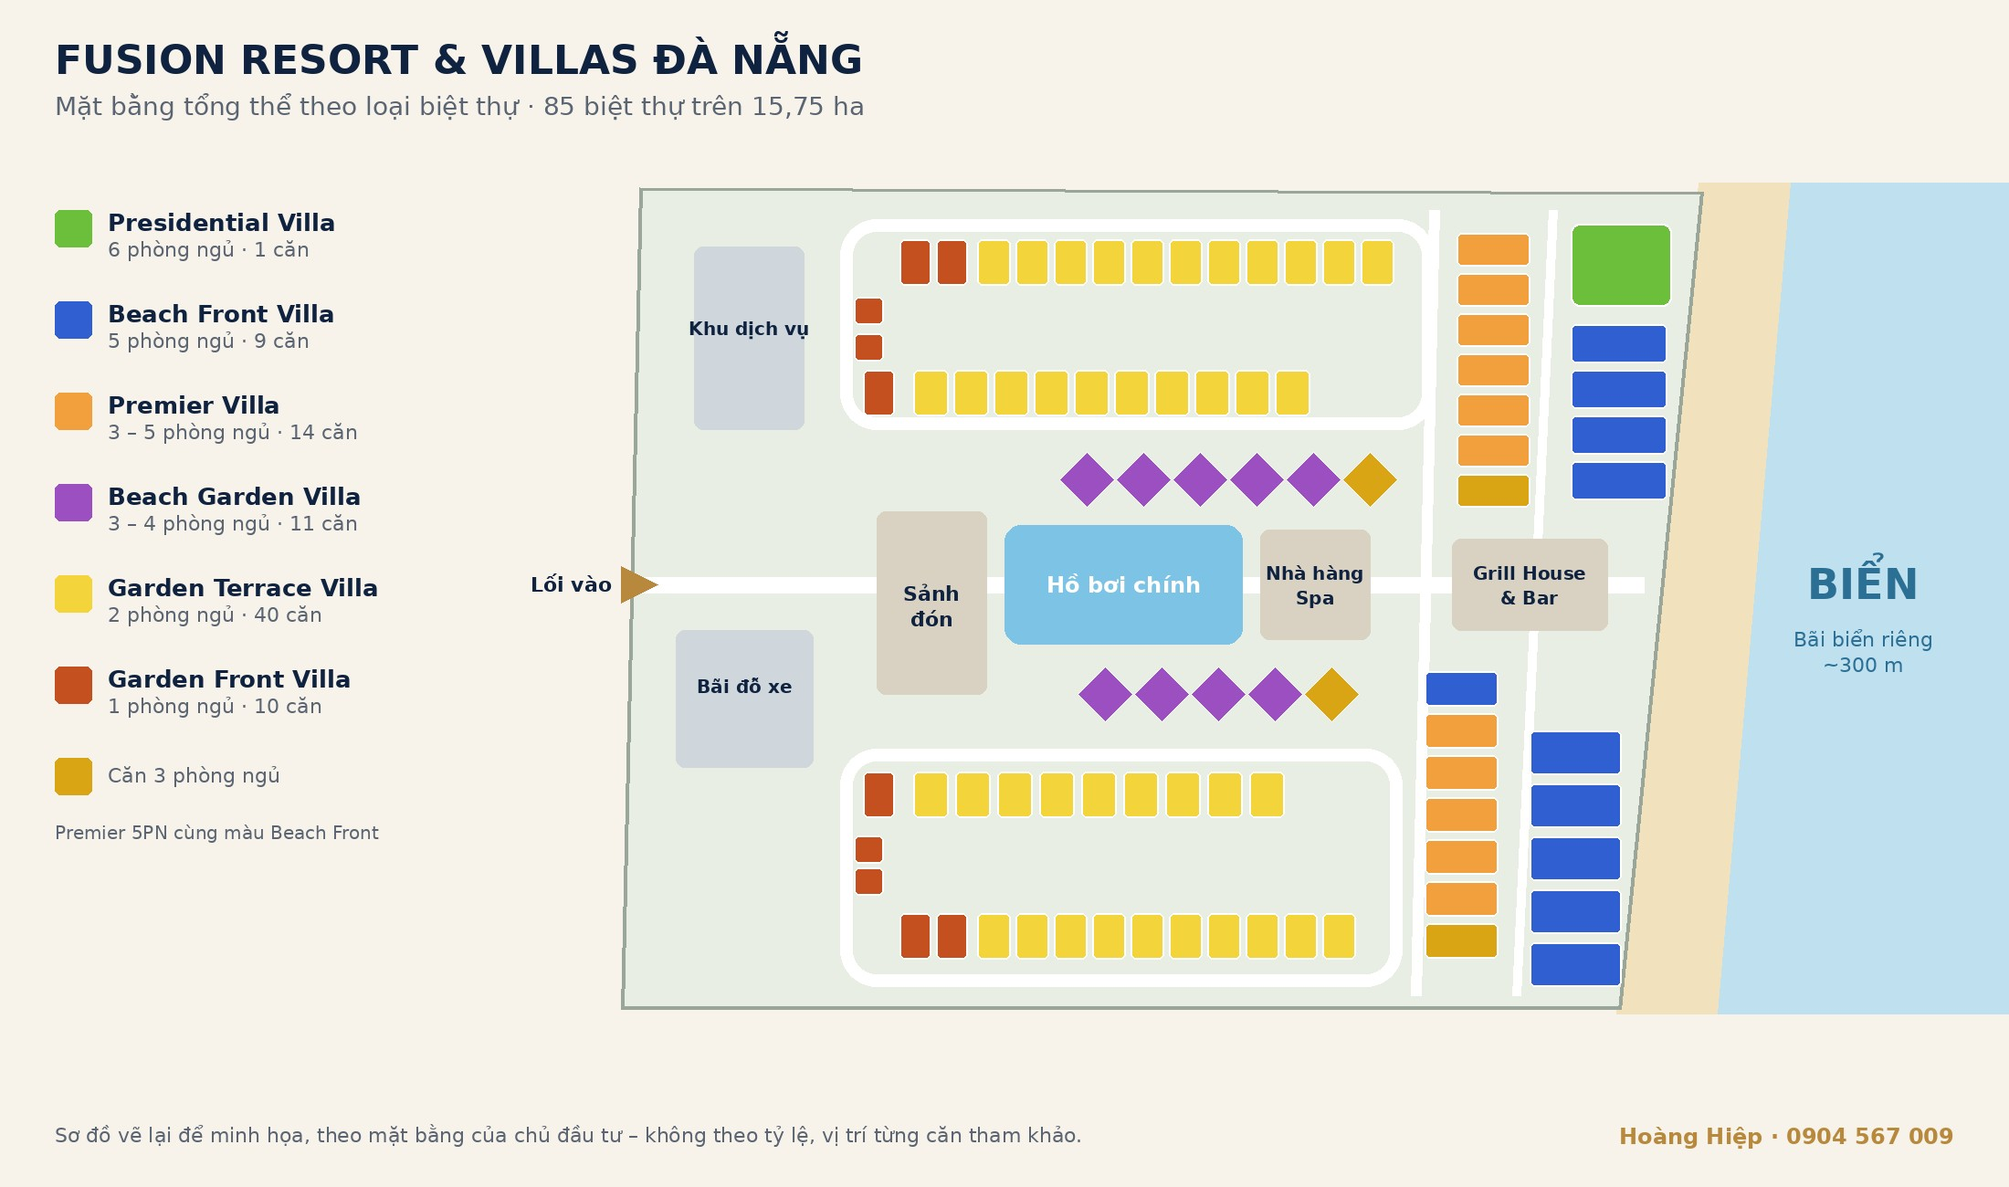
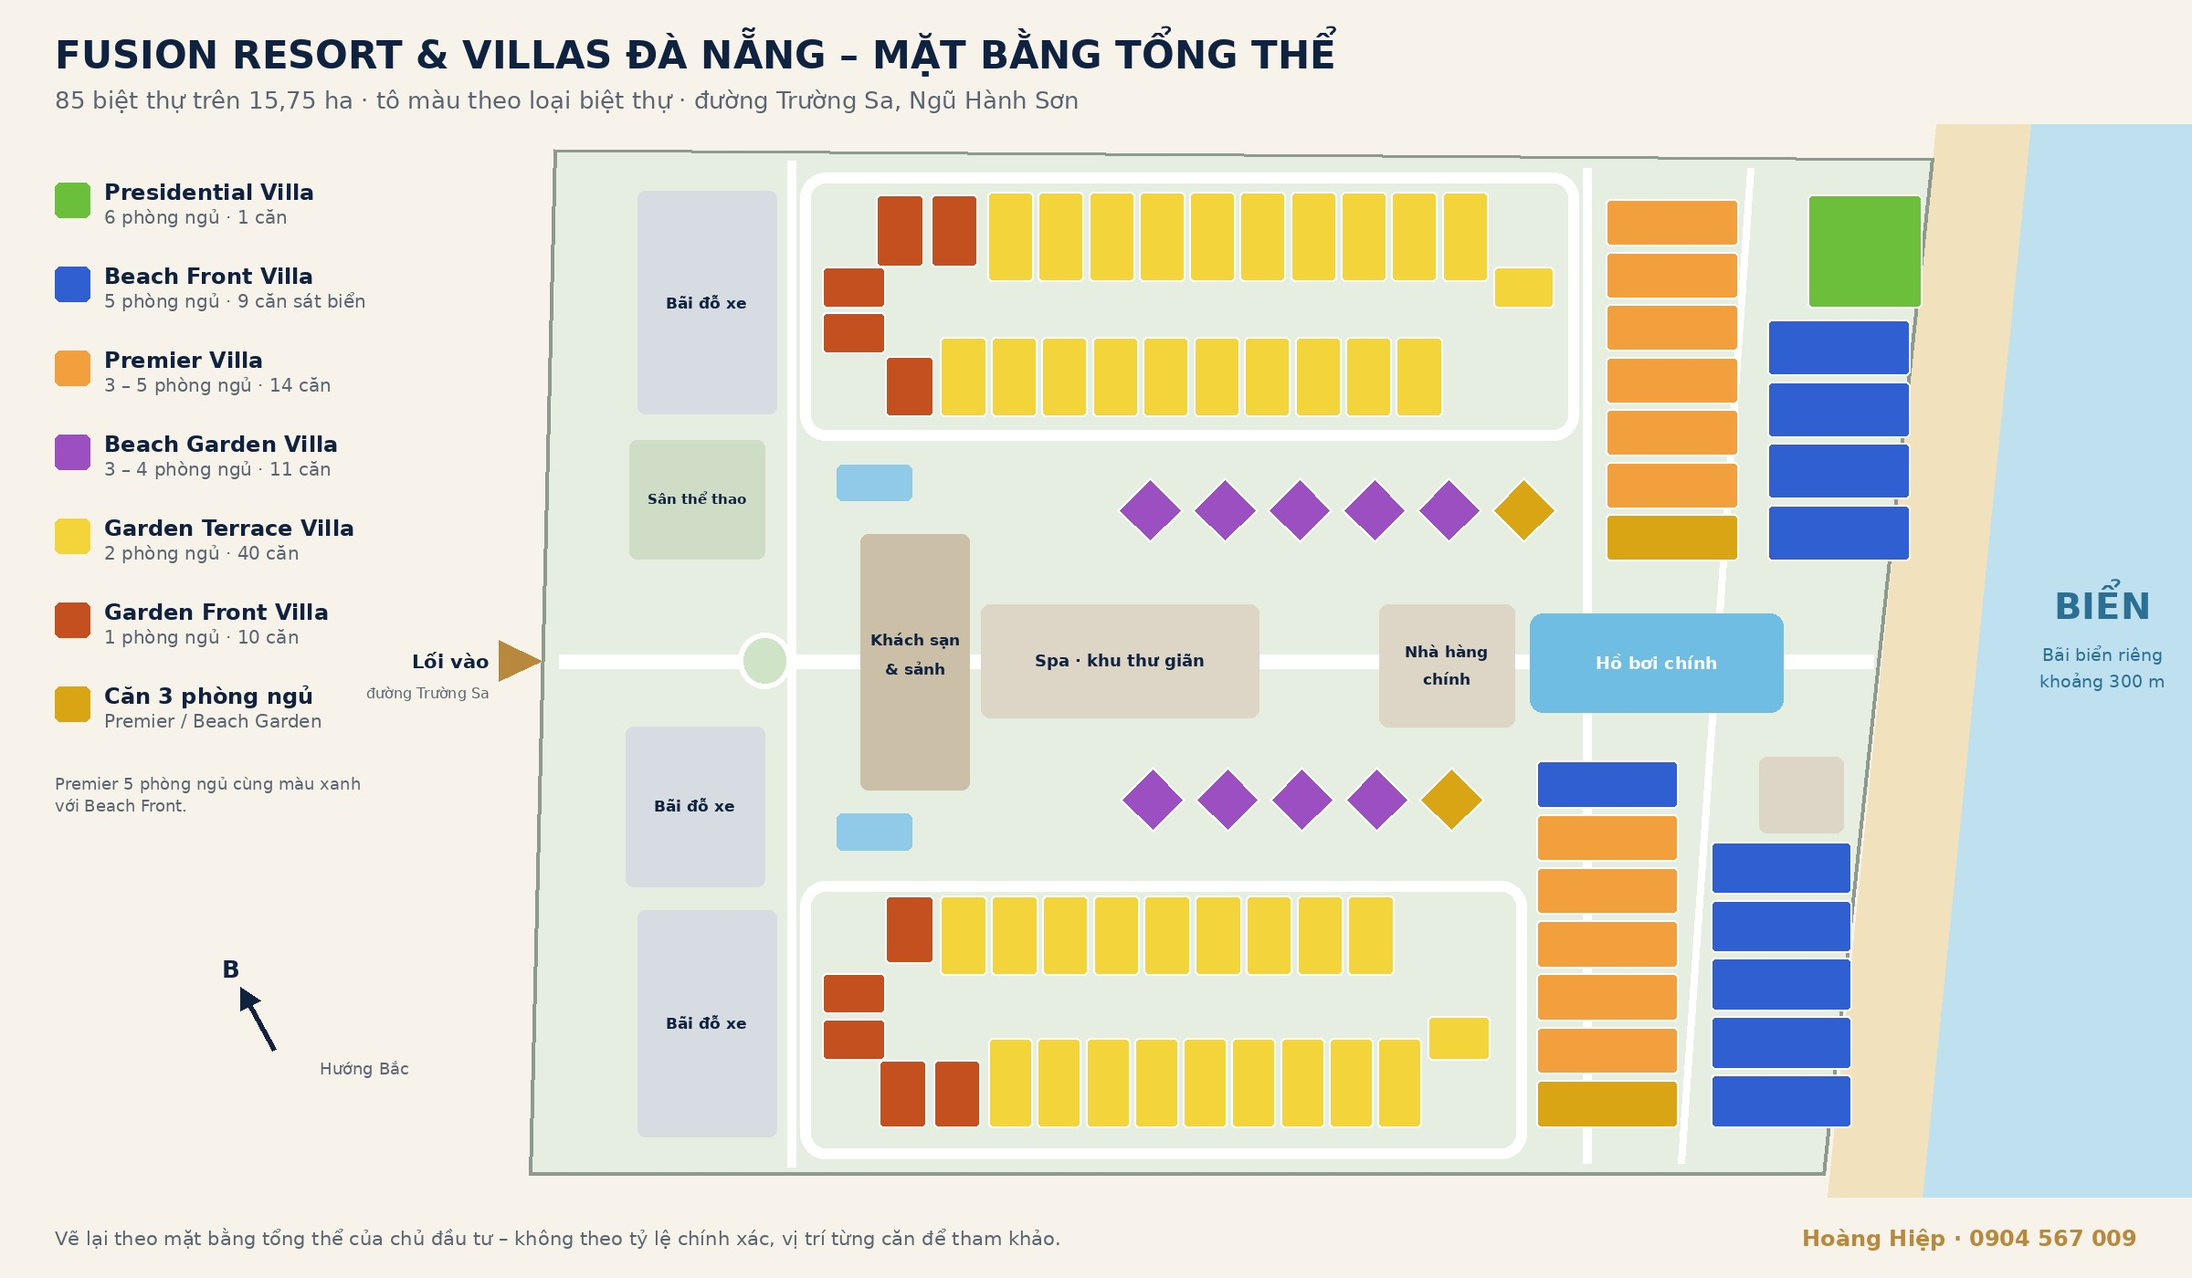
Fusion: mặt bằng tổng thể vẽ lại chi tiết theo mặt bằng CĐT, tự tải lại sơ đồ (plugin 2.20.160)
Claude-Session: https://claude.ai/code/session_011HGb6VAzLiwbq5KWLxGuh9

diff --git a/wordpress/bai-viet/fusion-mat-bang-ve-lai.py b/wordpress/bai-viet/fusion-mat-bang-ve-lai.py
@@ -1,4 +1,4 @@
-"""Sơ đồ mặt bằng Fusion Resort & Villas Đà Nẵng vẽ lại (minh họa theo mặt bằng chủ đầu tư, không theo tỷ lệ, không ghi mã căn)."""
+"""Mặt bằng Fusion Resort & Villas Đà Nẵng vẽ lại bám theo mặt bằng tổng thể chủ đầu tư (đủ 85 căn, đúng hàng – đúng loại, không ghi mã căn)."""
 import math
 import os
 import sys
@@ -9,141 +9,187 @@ F = '/usr/share/fonts/truetype/dejavu/DejaVuSans.ttf'
 FB = '/usr/share/fonts/truetype/dejavu/DejaVuSans-Bold.ttf'
 f = lambda s, b=False: ImageFont.truetype(FB if b else F, s)
 
-W, H = 2200, 1300
-BG, NAVY, GOLD = '#f7f3ea', '#0f2240', '#b8893c'
+W, H = 2400, 1400
+BG, NAVY, GOLD, MUTED = '#f7f3ea', '#0f2240', '#b8893c', '#5a6472'
 C = {
-    'pres': '#6bbf3a',   # Presidential 6PN
-    'beach': '#2f5fd0',  # Beach Front 5PN / Premier 5PN
-    'p4': '#f2a03d',     # Premier 4PN
-    'p3': '#d9a514',     # Premier / Beach Garden 3PN
-    'bg4': '#9b4fc0',    # Beach Garden 4PN
-    'gt': '#f3d43a',     # Garden Terrace 2PN
-    'gf': '#c4501f',     # Garden Front 1PN
+    'pres': '#6bbf3a',  # Presidential 6PN
+    'b5': '#2f5fd0',    # Beach Front 5PN / Premier 5PN
+    'p4': '#f2a03d',    # Premier 4PN
+    'v3': '#d9a514',    # Premier / Beach Garden 3PN
+    'bg4': '#9b4fc0',   # Beach Garden 4PN
+    'gt': '#f3d43a',    # Garden Terrace 2PN
+    'gf': '#c4501f',    # Garden Front 1PN
 }
-im = Image.new('RGB', (W, H), BG)
-d = ImageDraw.Draw(im)
-
-OX = 200  # dịch toàn bộ sơ đồ sang phải để chừa chỗ chú thích
+S = 1.32  # tỷ lệ từ toạ độ mặt bằng gốc sang khung vẽ
 
 
 def P(x, y):
-    return (x + OX, y)
+    """Toạ độ theo mặt bằng gốc (2000×1125) → khung vẽ."""
+    return (int(560 + (x - 480) * S), int(150 + (y - 210) * S))
 
 
-def box(x, y, w, h, col, r=6):
-    d.rounded_rectangle([P(x, y), P(x + w, y + h)], radius=r, fill=col, outline='white', width=2)
+im = Image.new('RGB', (W, H), BG)
+d = ImageDraw.Draw(im)
 
 
-def diamond(cx, cy, s, col):
-    pts = [P(cx + s * math.cos(a), cy + s * math.sin(a)) for a in (k * math.pi / 2 for k in range(4))]
-    d.polygon(pts, fill=col, outline='white')
+def rect(x0, y0, x1, y1, fill, r=6, outline=None, width=1):
+    d.rounded_rectangle([P(x0, y0), P(x1, y1)], radius=r, fill=fill, outline=outline, width=width)
 
 
-def label(x, y, text, size=22, col=NAVY, bold=True):
-    d.text(P(x, y), text, font=f(size, bold), fill=col, anchor='mm')
+def villa(x0, y0, x1, y1, key):
+    rect(x0, y0, x1, y1, C[key], 5, 'white', 2)
 
 
-# Biển, bãi cát, ranh khu đất
-d.polygon([P(1690, 200), P(2000, 200), P(2000, 1110), P(1600, 1110)], fill='#bfe0ef')
-d.polygon([P(1660, 200), P(1760, 200), P(1680, 1110), P(1570, 1110)], fill='#f1e2bd')
-d.polygon([P(500, 205), P(1665, 210), P(1575, 1105), P(480, 1105)], fill='#e8eee3', outline='#9aa69a', width=4)
-d.text(P(1840, 640), 'BIỂN', font=f(46, True), fill='#2c6f95', anchor='mm')
-d.text(P(1840, 700), 'Bãi biển riêng', font=f(22), fill='#2c6f95', anchor='mm')
-d.text(P(1840, 728), '~300 m', font=f(22), fill='#2c6f95', anchor='mm')
+def row(x0, x1, y0, y1, n, key, gap=4):
+    w = (x1 - x0 - gap * (n - 1)) / n
+    for i in range(n):
+        a = x0 + i * (w + gap)
+        villa(a, y0, a + w, y1, key)
+
+
+def col(x0, x1, y0, y1, keys, gap=5):
+    n = len(keys)
+    h = (y1 - y0 - gap * (n - 1)) / n
+    for i, k in enumerate(keys):
+        a = y0 + i * (h + gap)
+        villa(x0, a, x1, a + h, k)
+
+
+def diag(cx, cy, s, key):
+    """Biệt thự xếp chéo 45° (dãy Beach Garden)."""
+    pts = []
+    for a in (45, 135, 225, 315):
+        r = math.radians(a + 45)
+        pts.append(P(cx + s * math.cos(r), cy + s * math.sin(r)))
+    d.polygon(pts, fill=C[key], outline='white', width=2)
+
+
+def text(x, y, t, size=20, col=NAVY, bold=True):
+    d.text(P(x, y), t, font=f(size, bold), fill=col, anchor='mm')
+
+
+# Biển và bãi cát phía Đông
+d.polygon([P(1700, 200), P(1880, 200), P(1880, 1090), P(1610, 1090)], fill='#bfe0ef')
+d.polygon([P(1662, 200), P(1740, 200), P(1650, 1090), P(1572, 1090)], fill='#f1e2bd')
+text(1800, 600, 'BIỂN', 40, '#2c6f95')
+text(1800, 640, 'Bãi biển riêng', 19, '#2c6f95', False)
+text(1800, 662, 'khoảng 300 m', 19, '#2c6f95', False)
+
+# Ranh khu đất
+d.polygon([P(515, 220), P(1660, 228), P(1570, 1072), P(495, 1072)], fill='#e6ede1', outline='#8e9a8e', width=4)
 
 # Đường nội khu
-road = '#ffffff'
-for rect in ((720, 240, 1370, 470), (720, 820, 1335, 1080)):
-    d.rounded_rectangle([P(rect[0], rect[1]), P(rect[2], rect[3])], radius=40, outline=road, width=14)
-d.line([P(500, 640), P(1600, 640)], fill=road, width=18)
-d.line([P(1370, 230), P(1350, 1090)], fill=road, width=12)
-d.line([P(1500, 230), P(1460, 1090)], fill=road, width=10)
+ROAD = '#ffffff'
+for box in ((720, 240, 1365, 462), (720, 828, 1322, 1058)):
+    d.rounded_rectangle([P(box[0], box[1]), P(box[2], box[3])], radius=28, outline=ROAD, width=12)
+d.line([P(520, 645), P(1610, 645)], fill=ROAD, width=16)
+d.line([P(712, 230), P(712, 1065)], fill=ROAD, width=10)
+d.line([P(1372, 236), P(1372, 1062)], fill=ROAD, width=10)
+d.line([P(1508, 236), P(1450, 1062)], fill=ROAD, width=8)
+d.ellipse([P(668, 622), P(712, 668)], fill='#cfe3c6', outline=ROAD, width=6)
 
-# Khu trung tâm: sảnh, hồ bơi chính, nhà hàng
-d.rounded_rectangle([P(760, 560), P(880, 760)], radius=10, fill='#d9d2c3')
-label(820, 650, 'Sảnh', 22)
-label(820, 678, 'đón', 22)
-d.rounded_rectangle([P(900, 575), P(1160, 705)], radius=18, fill='#7cc3e6')
-label(1030, 640, 'Hồ bơi chính', 24, 'white')
-d.rounded_rectangle([P(1180, 580), P(1300, 700)], radius=10, fill='#d9d2c3')
-label(1240, 628, 'Nhà hàng', 20)
-label(1240, 655, 'Spa', 20)
-d.rounded_rectangle([P(1390, 590), P(1560, 690)], radius=10, fill='#d9d2c3')
-label(1475, 628, 'Grill House', 20)
-label(1475, 655, '& Bar', 20)
-d.rounded_rectangle([P(540, 690), P(690, 840)], radius=10, fill='#cfd6dc')
-label(615, 752, 'Bãi đỗ xe', 20)
-d.rounded_rectangle([P(560, 270), P(680, 470)], radius=10, fill='#cfd6dc')
-label(620, 360, 'Khu dịch vụ', 20)
+# Khu tiện ích phía Tây: bãi đỗ xe, khu dịch vụ
+for b in ((585, 255, 700, 440), (575, 700, 690, 832), (585, 852, 700, 1040)):
+    rect(*b, '#d6dce1', 8)
+text(642, 348, 'Bãi đỗ xe', 17)
+text(632, 766, 'Bãi đỗ xe', 17)
+text(642, 946, 'Bãi đỗ xe', 17)
+rect(578, 462, 690, 560, '#cfdcc6', 8)
+text(634, 511, 'Sân thể thao', 15)
 
-d.polygon([P(480, 620), P(520, 640), P(480, 660)], fill=GOLD)
-d.text(P(470, 640), 'Lối vào', font=f(22, True), fill=NAVY, anchor='rm')
+# Lối vào từ đường Trường Sa (phía Tây)
+d.polygon([P(470, 628), P(505, 645), P(470, 662)], fill=GOLD)
+d.text(P(462, 645), 'Lối vào', font=f(21, True), fill=NAVY, anchor='rm')
+d.text(P(462, 672), 'đường Trường Sa', font=f(16), fill=MUTED, anchor='rm')
 
-# Cụm trên: Garden Front 1PN + Garden Terrace 2PN
-for y in (325, 365):
-    box(735, y, 32, 30, C['gf'])
-for i in range(2):
-    box(785 + i * 40, 262, 34, 50, C['gf'])
-for i in range(11):
-    box(870 + i * 42, 262, 36, 50, C['gt'])
-box(745, 405, 34, 50, C['gf'])
-for i in range(10):
-    box(800 + i * 44, 405, 38, 50, C['gt'])
-# Hàng chéo trên: Beach Garden
+# Trục trung tâm: khách sạn – sảnh, spa, nhà hàng, hồ bơi chính sát biển
+rect(770, 540, 860, 752, '#cbbfa8', 8)
+text(815, 628, 'Khách sạn', 17)
+text(815, 652, '& sảnh', 17)
+rect(870, 598, 1100, 692, '#ddd5c5', 10)
+text(985, 645, 'Spa · khu thư giãn', 18)
+rect(1200, 598, 1312, 700, '#ddd5c5', 10)
+text(1256, 638, 'Nhà hàng', 17)
+text(1256, 660, 'chính', 17)
+rect(1325, 606, 1535, 688, '#6fbde3', 14)
+text(1430, 647, 'Hồ bơi chính', 19, 'white')
+# Hồ bơi nhỏ hai cụm
+rect(750, 482, 812, 512, '#8fcbe8', 6)
+rect(750, 772, 812, 802, '#8fcbe8', 6)
+
+# Cụm trên – Garden Front 1PN & Garden Terrace 2PN
+villa(783, 258, 822, 318, 'gf')
+villa(828, 258, 867, 318, 'gf')
+row(875, 1290, 256, 330, 10, 'gt')
+villa(1295, 318, 1345, 352, 'gt')
+villa(738, 318, 790, 352, 'gf')
+villa(738, 356, 790, 390, 'gf')
+villa(790, 392, 830, 442, 'gf')
+row(836, 1252, 376, 442, 10, 'gt')
+
+# Dãy chéo trên – Beach Garden
 for i in range(6):
-    diamond(990 + i * 62, 525, 30, C['bg4'] if i < 5 else C['p3'])
-# Cột Premier phía trên
-for i in range(7):
-    box(1395, 255 + i * 44, 80, 36, C['p4'] if i < 6 else C['p3'])
-# Presidential + Beach Front phía trên
-box(1520, 245, 110, 90, C['pres'], 10)
-for i in range(4):
-    box(1520, 355 + i * 50, 105, 42, C['beach'])
+    diag(1010 + i * 62, 520, 27, 'bg4' if i < 5 else 'v3')
 
-# Hàng chéo dưới: Beach Garden
+# Cột Premier trên (4PN, cuối dãy 3PN)
+col(1388, 1498, 262, 562, ['p4'] * 6 + ['v3'])
+
+# Presidential và Beach Front phía trên
+villa(1555, 258, 1650, 352, 'pres')
+col(1522, 1640, 362, 562, ['b5'] * 4)
+
+# Dãy chéo dưới – Beach Garden
 for i in range(5):
-    diamond(1010 + i * 62, 760, 30, C['bg4'] if i < 4 else C['p3'])
-# Cột Premier phía dưới
-for i in range(7):
-    col = C['beach'] if i == 0 else (C['p3'] if i == 6 else C['p4'])
-    box(1360, 735 + i * 46, 80, 38, col)
+    diag(1012 + i * 62, 760, 27, 'bg4' if i < 4 else 'v3')
+
+# Cột Premier dưới (5PN đầu dãy, 4PN, cuối dãy 3PN)
+col(1330, 1448, 728, 1032, ['b5'] + ['p4'] * 5 + ['v3'])
+rect(1515, 725, 1585, 788, '#ddd5c5', 8)
+
 # Beach Front phía dưới
-for i in range(5):
-    box(1475, 800 + i * 58, 100, 48, C['beach'])
+col(1475, 1592, 795, 1032, ['b5'] * 5)
 
-# Cụm dưới: Garden Front + Garden Terrace
-box(745, 845, 34, 50, C['gf'])
-for i in range(9):
-    box(800 + i * 46, 845, 38, 50, C['gt'])
-for y in (915, 950):
-    box(735, y, 32, 30, C['gf'])
-for i in range(2):
-    box(785 + i * 40, 1000, 34, 50, C['gf'])
-for i in range(10):
-    box(870 + i * 42, 1000, 36, 50, C['gt'])
+# Cụm dưới – Garden Front 1PN & Garden Terrace 2PN
+villa(790, 840, 830, 896, 'gf')
+row(836, 1212, 840, 906, 9, 'gt')
+villa(738, 904, 790, 938, 'gf')
+villa(738, 942, 790, 976, 'gf')
+villa(785, 976, 824, 1032, 'gf')
+villa(830, 976, 869, 1032, 'gf')
+row(876, 1235, 958, 1032, 9, 'gt')
+villa(1240, 940, 1292, 976, 'gt')
+
+# La bàn: hướng Bắc theo mặt bằng chủ đầu tư (lệch về trái)
+cx, cy = 300, 1150
+a = math.radians(-118)
+d.line([(cx, cy), (cx + 62 * math.cos(a), cy + 62 * math.sin(a))], fill=NAVY, width=5)
+d.polygon([(cx + 78 * math.cos(a), cy + 78 * math.sin(a)),
+           (cx + 56 * math.cos(a + 0.22), cy + 56 * math.sin(a + 0.22)),
+           (cx + 56 * math.cos(a - 0.22), cy + 56 * math.sin(a - 0.22))], fill=NAVY)
+d.text((cx + 100 * math.cos(a), cy + 100 * math.sin(a)), 'B', font=f(26, True), fill=NAVY, anchor='mm')
+d.text((cx + 50, cy + 10), 'Hướng Bắc', font=f(18), fill=MUTED)
 
 # Tiêu đề và chú thích
-d.text((60, 40), 'FUSION RESORT & VILLAS ĐÀ NẴNG', font=f(44, True), fill=NAVY)
-d.text((60, 100), 'Mặt bằng tổng thể theo loại biệt thự · 85 biệt thự trên 15,75 ha', font=f(28), fill='#5a6472')
+d.text((60, 36), 'FUSION RESORT & VILLAS ĐÀ NẴNG – MẶT BẰNG TỔNG THỂ', font=f(42, True), fill=NAVY)
+d.text((60, 94), '85 biệt thự trên 15,75 ha · tô màu theo loại biệt thự · đường Trường Sa, Ngũ Hành Sơn', font=f(26), fill=MUTED)
 legend = [
     ('pres', 'Presidential Villa', '6 phòng ngủ · 1 căn'),
-    ('beach', 'Beach Front Villa', '5 phòng ngủ · 9 căn'),
+    ('b5', 'Beach Front Villa', '5 phòng ngủ · 9 căn sát biển'),
     ('p4', 'Premier Villa', '3 – 5 phòng ngủ · 14 căn'),
     ('bg4', 'Beach Garden Villa', '3 – 4 phòng ngủ · 11 căn'),
     ('gt', 'Garden Terrace Villa', '2 phòng ngủ · 40 căn'),
     ('gf', 'Garden Front Villa', '1 phòng ngủ · 10 căn'),
+    ('v3', 'Căn 3 phòng ngủ', 'Premier / Beach Garden'),
 ]
-y = 230
+y = 200
 for key, name, sub in legend:
-    d.rounded_rectangle([60, y, 100, y + 40], radius=6, fill=C[key])
-    d.text((118, y - 2), name, font=f(26, True), fill=NAVY)
-    d.text((118, y + 30), sub, font=f(22), fill='#5a6472')
-    y += 100
-d.rounded_rectangle([60, y, 100, y + 40], radius=6, fill=C['p3'])
-d.text((118, y + 6), 'Căn 3 phòng ngủ', font=f(22), fill='#5a6472')
-y += 70
-d.text((60, y), 'Premier 5PN cùng màu Beach Front', font=f(20), fill='#5a6472')
+    d.rounded_rectangle([60, y, 98, y + 38], radius=6, fill=C[key])
+    d.text((114, y - 4), name, font=f(24, True), fill=NAVY)
+    d.text((114, y + 26), sub, font=f(20), fill=MUTED)
+    y += 92
+d.text((60, y + 4), 'Premier 5 phòng ngủ cùng màu xanh', font=f(18), fill=MUTED)
+d.text((60, y + 28), 'với Beach Front.', font=f(18), fill=MUTED)
 
-d.text((60, H - 70), 'Sơ đồ vẽ lại để minh họa, theo mặt bằng của chủ đầu tư – không theo tỷ lệ, vị trí từng căn tham khảo.', font=f(22), fill='#5a6472')
-d.text((W - 60, H - 70), 'Hoàng Hiệp · 0904 567 009', font=f(24, True), fill=GOLD, anchor='ra')
+d.text((60, H - 56), 'Vẽ lại theo mặt bằng tổng thể của chủ đầu tư – không theo tỷ lệ chính xác, vị trí từng căn để tham khảo.', font=f(21), fill=MUTED)
+d.text((W - 60, H - 58), 'Hoàng Hiệp · 0904 567 009', font=f(24, True), fill=GOLD, anchor='ra')
 im.save(os.path.join(OUT, 'fusion-mat-bang-ve-lai.jpg'), quality=90, optimize=True, progressive=True)

diff --git a/wordpress/wp-content/mu-plugins/hh-crm/data-fusion-csbh-11-2026.php b/wordpress/wp-content/mu-plugins/hh-crm/data-fusion-csbh-11-2026.php
@@ -124,3 +124,35 @@ add_action(
 		update_option( 'hh_fusion_mb_cu_go', 1, false );
 	}
 );
+
+// Sơ đồ mặt bằng vẽ lại: nếu lần trước tải lỗi (thiếu file) thì tải lại, và luôn đứng đầu mục Mặt bằng tổng thể.
+add_action(
+	'admin_init',
+	static function () {
+		if ( get_option( 'hh_fusion_mb_ve_lai_ok' ) || ! current_user_can( 'edit_posts' ) ) {
+			return;
+		}
+		$post = get_page_by_path( 'fusion-resort-villas-da-nang', OBJECT, 'du-an' );
+		if ( ! $post ) {
+			return;
+		}
+		$key  = 'plugin:img/fusion/fusion-mat-bang-ve-lai.jpg';
+		$done = (array) get_post_meta( $post->ID, '_hh_img_links', true );
+		$id   = $done[ $key ] ?? null;
+		if ( ! is_int( $id ) ) {
+			if ( null !== $id ) {
+				unset( $done[ $key ] );
+				update_post_meta( $post->ID, '_hh_img_links', $done );
+				delete_post_meta( $post->ID, '_hh_img_fail_' . md5( $key ) );
+			}
+			if ( function_exists( 'hh_img_links_queue' ) ) {
+				hh_img_links_queue( $post->ID );
+			}
+			return; // Chờ tải xong, lần sau xếp thứ tự.
+		}
+		$ids = array_filter( array_map( 'absint', explode( ',', (string) get_post_meta( $post->ID, 'hh_p_masterplan_img', true ) ) ) );
+		$ids = array_values( array_unique( array_merge( array( $id ), array_diff( $ids, array( $id ) ) ) ) );
+		update_post_meta( $post->ID, 'hh_p_masterplan_img', implode( ',', $ids ) );
+		update_option( 'hh_fusion_mb_ve_lai_ok', 1, false );
+	}
+);

diff --git a/wordpress/packaging/hoang-hiep-crm.php b/wordpress/packaging/hoang-hiep-crm.php
@@ -2,7 +2,7 @@
 /**
  * Plugin Name: Hoàng Hiệp CRM
  * Description: Dự án, nhà đất mua bán / cho thuê, khách hàng tiềm năng và dữ liệu dự án Đà Nẵng cho hiephoangmt.com. Dùng kèm giao diện Hoàng Hiệp.
- * Version: 2.20.159
+ * Version: 2.20.160
  * Author: Hoàng Hiệp
  * Requires PHP: 7.4
  */
@@ -14,7 +14,7 @@ if ( defined( 'HH_CRM_VERSION' ) ) {
 	return;
 }
 
-define( 'HH_CRM_VERSION', '2.20.159' );
+define( 'HH_CRM_VERSION', '2.20.160' );
 define( 'HH_CRM_DIR', __DIR__ . '/hh-crm/' );
 define( 'HH_CRM_URL', plugin_dir_url( __FILE__ ) . 'hh-crm/' );
 

diff --git a/wordpress/wp-content/mu-plugins/hh-crm.php b/wordpress/wp-content/mu-plugins/hh-crm.php
@@ -2,7 +2,7 @@
 /**
  * Plugin Name: Hoàng Hiệp CRM
  * Description: Dự án, nhà đất mua bán / cho thuê và khách hàng tiềm năng cho hiephoangmt.com.
- * Version: 2.20.159
+ * Version: 2.20.160
  * Author: Hoàng Hiệp
  */
 
@@ -13,7 +13,7 @@ if ( defined( 'HH_CRM_VERSION' ) ) {
 	return;
 }
 
-define( 'HH_CRM_VERSION', '2.20.159' );
+define( 'HH_CRM_VERSION', '2.20.160' );
 define( 'HH_CRM_DIR', __DIR__ . '/hh-crm/' );
 define( 'HH_CRM_URL', WPMU_PLUGIN_URL . '/hh-crm/' );
 

diff --git a/wordpress/GHI-CHU-CAP-NHAT.md b/wordpress/GHI-CHU-CAP-NHAT.md
@@ -1,6 +1,6 @@
 # Gói cập nhật hiephoangmt.com – 12/10/2026
 
-**File cài:** `hoang-hiep-tron-goi.zip` (giao diện Hoàng Hiệp **2.15.62** + plugin Hoàng Hiệp CRM **2.20.159**) · cập nhật nhanh bằng điện thoại: `cap-nhat-nhanh.zip`
+**File cài:** `hoang-hiep-tron-goi.zip` (giao diện Hoàng Hiệp **2.15.62** + plugin Hoàng Hiệp CRM **2.20.160**) · cập nhật nhanh bằng điện thoại: `cap-nhat-nhanh.zip`
 **Xem trước:** https://claude.ai/artifact/ACKuFhbbb8yj5VoU8Ty9X7 (riêng tư – bấm Chia sẻ nếu muốn gửi người khác)
 
 ## Cài đặt từng bước (khoảng 10 phút)
@@ -40,6 +40,10 @@ Hình minh hoạ từng bước: thư mục `huong-dan/` (cai-1 … cai-4, inter
 Kẹt ở bước nào: chụp màn hình gửi lại.
 
 Ô / bài anh đã tự sửa trong quản trị **không bị ghi đè** khi nhập dữ liệu.
+
+## Có gì mới – plugin 2.20.160 (06/11/2026)
+
+- **Fusion – mặt bằng tổng thể vẽ lại chi tiết:** bám đúng mặt bằng chủ đầu tư, đủ 85 căn đúng hàng, tô màu theo loại; khách sạn – sảnh, spa, nhà hàng chính, hồ bơi chính sát biển, bãi đỗ xe, lối vào Trường Sa, hướng Bắc; không ghi mã căn. Gói này kèm file sơ đồ (bản 2.20.158 chưa lên web vì thiếu file) – web tự tải lại và đặt sơ đồ lên đầu mục Mặt bằng.
 
 ## Có gì mới – plugin 2.20.159 (06/11/2026)
 
